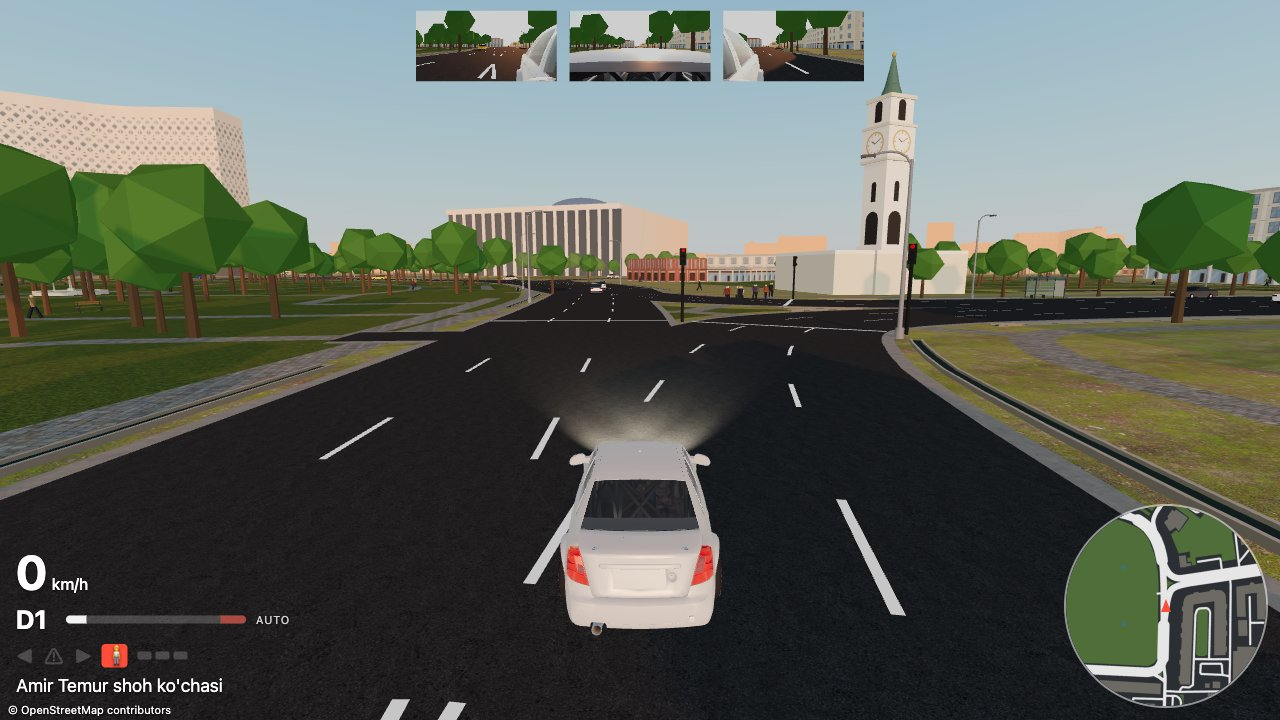
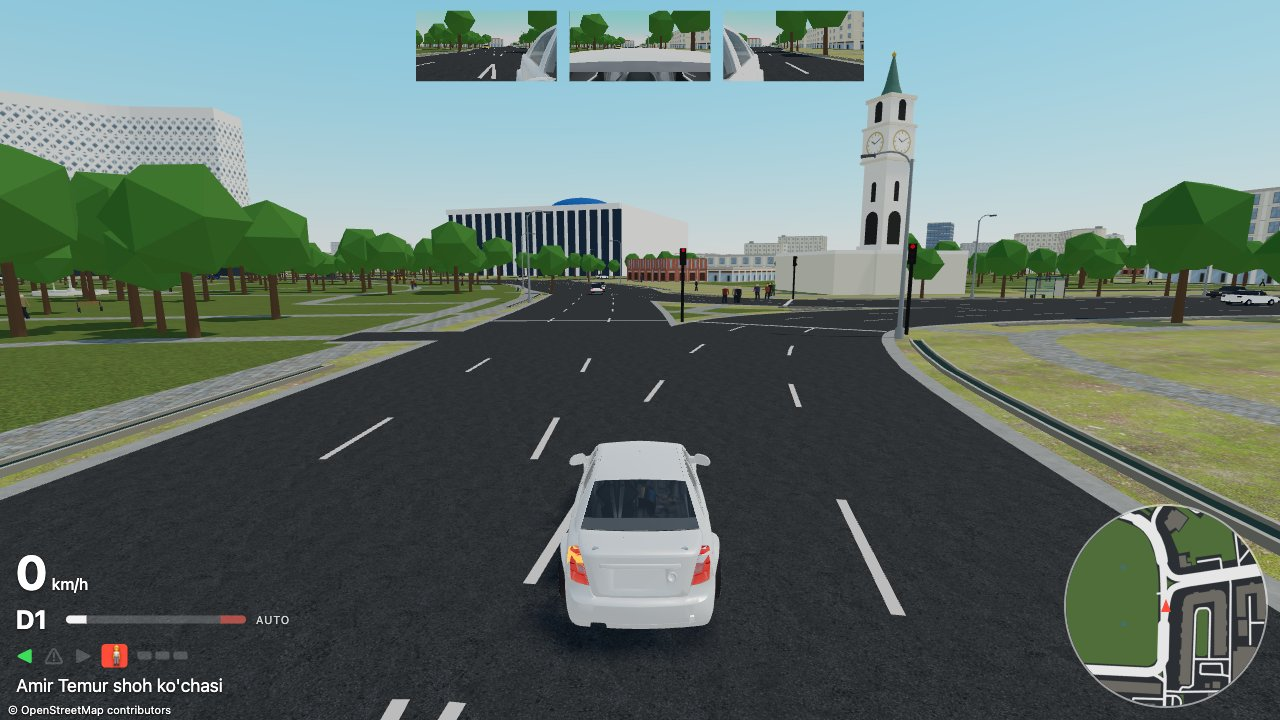
fix(vehicle): indicators and reverse lamps readable at noon, beams after a switch up from low
Lit indicators and reverse lamps turn their lens amber and white as well as glowing. Beams are added the first time the quality goes up from low.

diff --git a/src/vehicle/lamps.ts b/src/vehicle/lamps.ts
@@ -31,7 +31,7 @@ const LOOK: Record<LampGroup, { lens: number; glow: number }> = {
   indicatorRight: { lens: 0xb06a10, glow: 0xff8a10 },
 };
 
-const HEAD = 2.5, TAIL = 1, BRAKE = 6, REVERSE = 5, INDICATOR = 6;
+const HEAD = 2.5, TAIL = 1, BRAKE = 6, REVERSE = 3, INDICATOR = 3;
 
 /** Materials for the code-built body's lamps. */
 export function lampMaterials(): Record<LampGroup, THREE.MeshStandardMaterial> {
@@ -56,15 +56,26 @@ export function glow(m: THREE.MeshStandardMaterial): void {
   if (g !== 'head' && g !== 'tail') m.emissiveMap = null;
 }
 
-/** Switches lamps by emissive intensity alone, so no shader recompiles and no allocations. */
+/**
+ * Switches lamps by emissive intensity, and for the indicators and reverse lamps also the lens colour, which is clear
+ * when off. Only uniforms change, so no shader recompiles and no allocations.
+ */
 export function createLampControl(mats: Record<LampGroup, THREE.MeshStandardMaterial>) {
+  const lens = (g: LampGroup) => {
+    const off = mats[g].color.clone(), on = new THREE.Color(LOOK[g].glow);
+    return (lit: boolean, intensity: number) => {
+      mats[g].color.copy(lit ? on : off);
+      mats[g].emissiveIntensity = lit ? intensity : 0;
+    };
+  };
+  const reverse = lens('reverse'), left = lens('indicatorLeft'), right = lens('indicatorRight');
   return {
     set(s: LampState): void {
       mats.head.emissiveIntensity = s.head ? HEAD : 0;
       mats.tail.emissiveIntensity = s.brake ? BRAKE : s.head ? TAIL : 0;
-      mats.reverse.emissiveIntensity = s.reverse ? REVERSE : 0;
-      mats.indicatorLeft.emissiveIntensity = s.left ? INDICATOR : 0;
-      mats.indicatorRight.emissiveIntensity = s.right ? INDICATOR : 0;
+      reverse(s.reverse, REVERSE);
+      left(s.left, INDICATOR);
+      right(s.right, INDICATOR);
     },
   };
 }

diff --git a/src/main.ts b/src/main.ts
@@ -102,7 +102,7 @@ scene.add(car.object);
 car.sync();
 car.object.traverse(o => o.layers.set(CAR_LAYER));
 // After the CAR_LAYER pass, so the beams stay on layer 0 and light the road in cockpit view too.
-const beams = quality.headlightBeams ? createHeadlightBeams(car.object, GROUND_Y) : null;
+let beams = quality.headlightBeams ? createHeadlightBeams(car.object, GROUND_Y) : null;
 let beamsAllowed = quality.headlightBeams;
 const lamps = newLampState();
 const cockpit = createCockpit();
@@ -219,6 +219,8 @@ function applyQuality(q: Quality) {
   env.setQuality(s);
   mirrors.setQuality(s);
   beamsAllowed = s.headlightBeams;
+  // Added once, on the first switch up from low; that one shader recompile is the cost.
+  if (beamsAllowed && !beams) beams = createHeadlightBeams(car.object, GROUND_Y);
 }
 
 // The probe samples the same loop that draws the start screen, so it never blocks it.

diff --git a/src/vehicle/lamps.test.ts b/src/vehicle/lamps.test.ts
@@ -93,3 +93,18 @@ describe('lamp materials', () => {
     expect(head.r).toBeGreaterThanOrEqual(head.b);
   });
 });
+
+describe('lens colour', () => {
+  it('turns the indicator lens amber and the reverse lens white only while lit', () => {
+    const mats = lampMaterials();
+    const off = mats.indicatorLeft.color.getHex();
+    const lamps = createLampControl(mats);
+    lamps.set({ ...newLampState(), left: true, reverse: true });
+    const hue = mats.indicatorLeft.color.getHSL({ h: 0, s: 0, l: 0 }, THREE.SRGBColorSpace).h * 360;
+    expect(hue).toBeGreaterThan(20);
+    expect(hue).toBeLessThan(45);
+    expect(mats.reverse.color.getHex()).toBe(0xffffff);
+    lamps.set(newLampState());
+    expect(mats.indicatorLeft.color.getHex()).toBe(off);
+  });
+});

diff --git a/docs/visuals/m4e/README.md b/docs/visuals/m4e/README.md
@@ -84,8 +84,11 @@ Material___585 has the largest area but is the interior atlas; the paint is Mate
 
 | Shot | What |
 |---|---|
-| [lamps-rear-brake-left.jpg](lamps-rear-brake-left.jpg) | evening chase, brake held, left indicator in its lit phase, headlight beams on the road ahead |
-| [lamps-reverse.jpg](lamps-reverse.jpg) | evening chase, R selected, reverse cells lit |
+| [lamps-rear-brake-left.jpg](lamps-rear-brake-left.jpg) | noon chase, brake held, left indicator in its lit phase |
+| [lamps-rear-brake-left-evening.jpg](lamps-rear-brake-left-evening.jpg) | the same at evening, headlight beams on the road ahead |
+| [lamps-reverse.jpg](lamps-reverse.jpg) | noon chase, R selected, reverse lamps lit |
 | [lamps-front-evening.jpg](lamps-front-evening.jpg) | front at evening, headlights on by themselves, two spot light beams |
 
-Five lamp groups, one mesh and material each: head, tail (tail and brake), reverse, indicatorLeft, indicatorRight. The model has no side repeaters and no third brake lamp. Left is +x, the driver's side. Chase view at the spawn, high: 90 main-pass calls at noon and at evening (budget 92). The beams are two spot lights on medium and high, off on low.
+Five lamp groups, one mesh and material each: head, tail (tail and brake), reverse, indicatorLeft, indicatorRight. The model has no side repeaters and no third brake lamp. Left is +x, the driver's side. Chase view at the spawn, high: 90 main-pass calls at noon and at evening (budget 92). The beams are two spot lights on medium and high, off on low; switching up from low adds them then.
+
+The model's red tail lamp lens over the indicator and reverse cells is moved into those lamps' meshes as a clear lens, and lit lamps turn their lens amber or white, so they read at noon through no red glass. The roll cage (190 triangles of tube parts in the interior mesh) and the oversized exhaust tip (its own meshes) are removed. The rest of the tuning kit is part of single body meshes and stays: front splitter and lower lip in the bumper mesh (obj109, one 1,062 triangle part), side skirts and wide wheel arches in the body shell (obj116, one 2,218 triangle part), the bucket seats.
